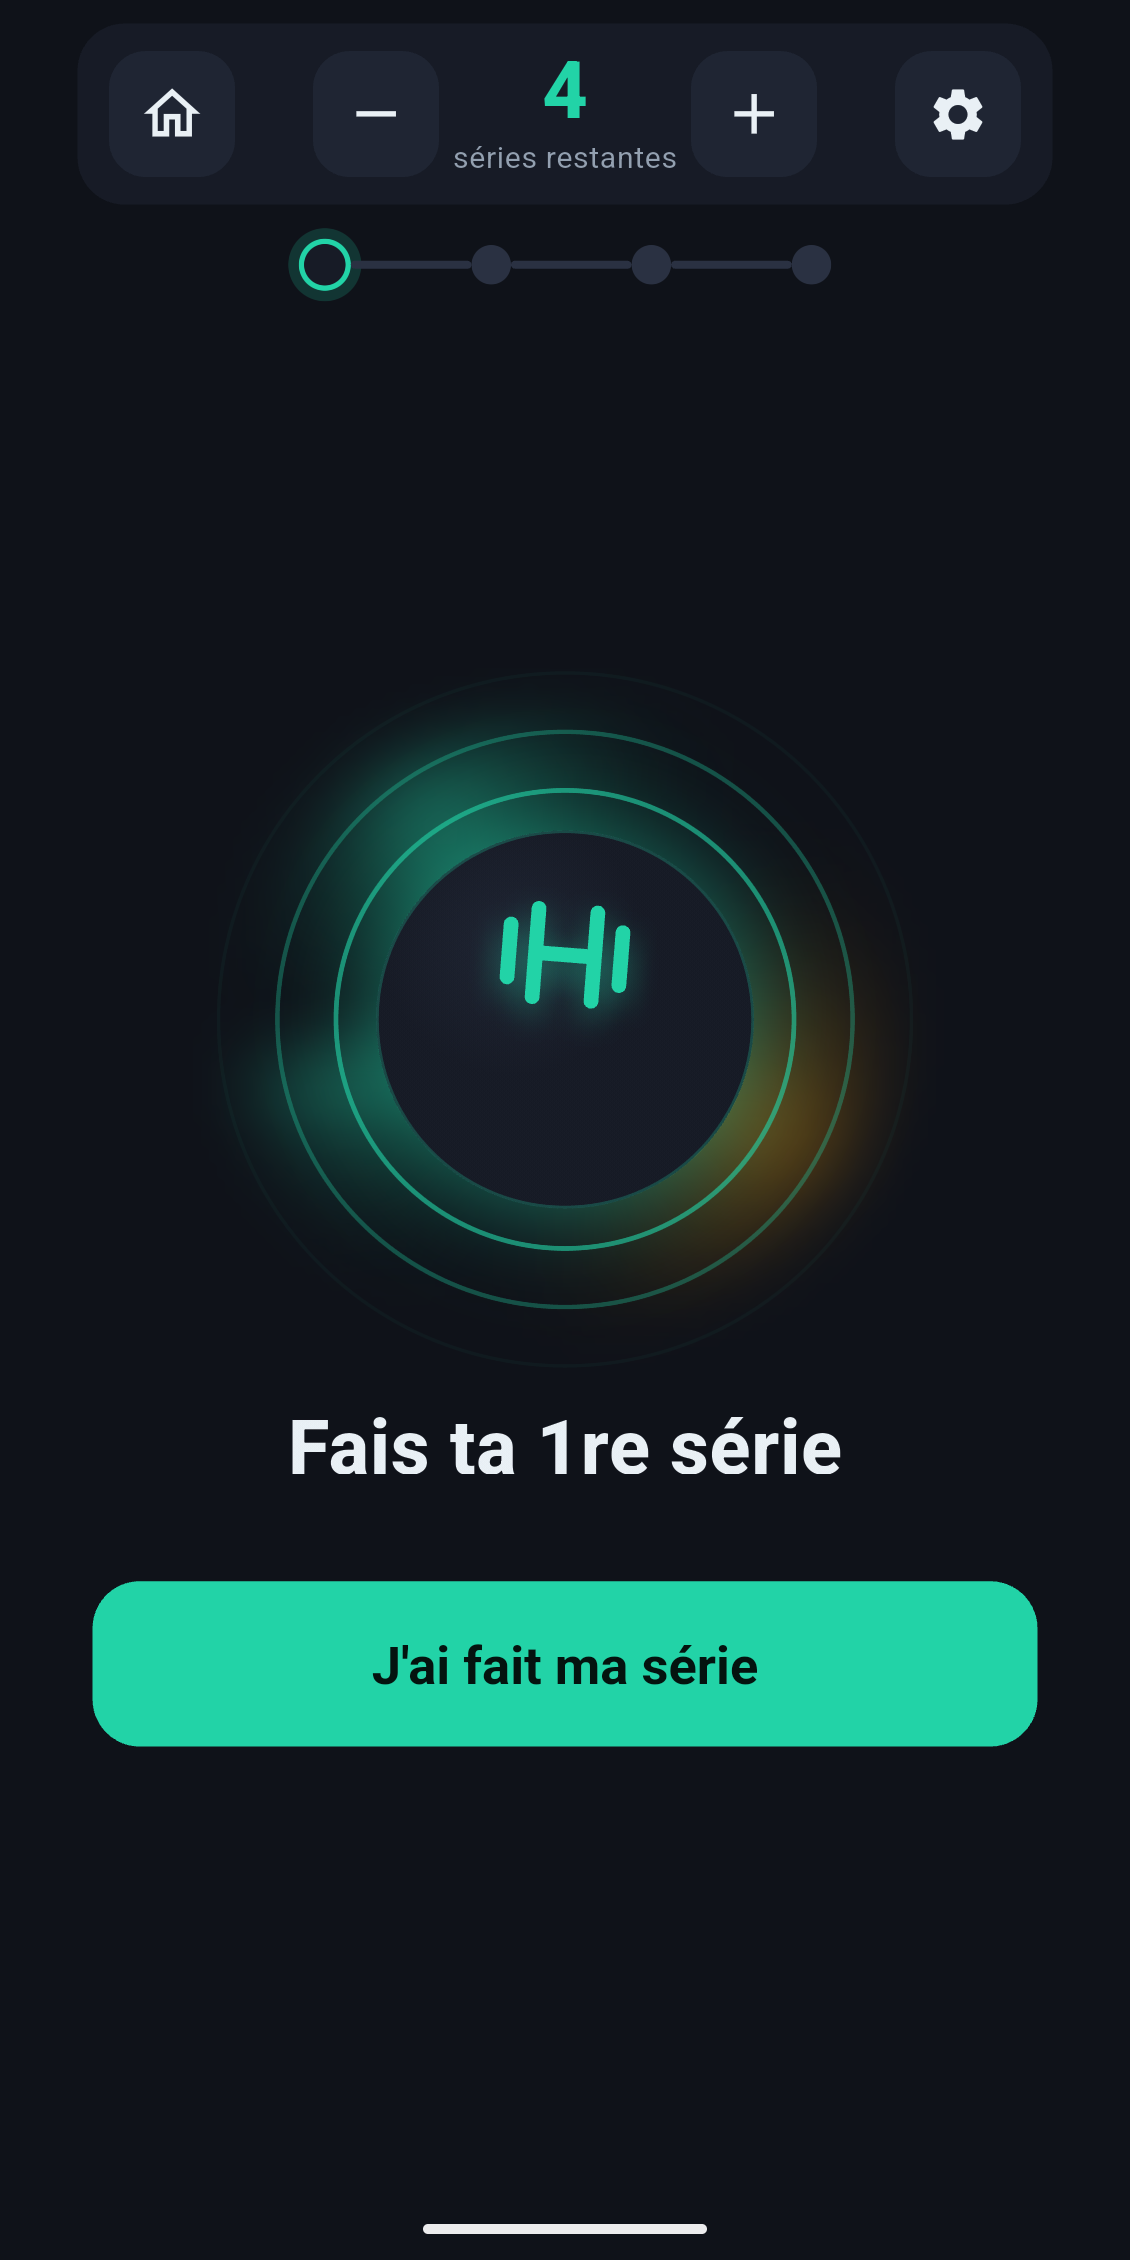
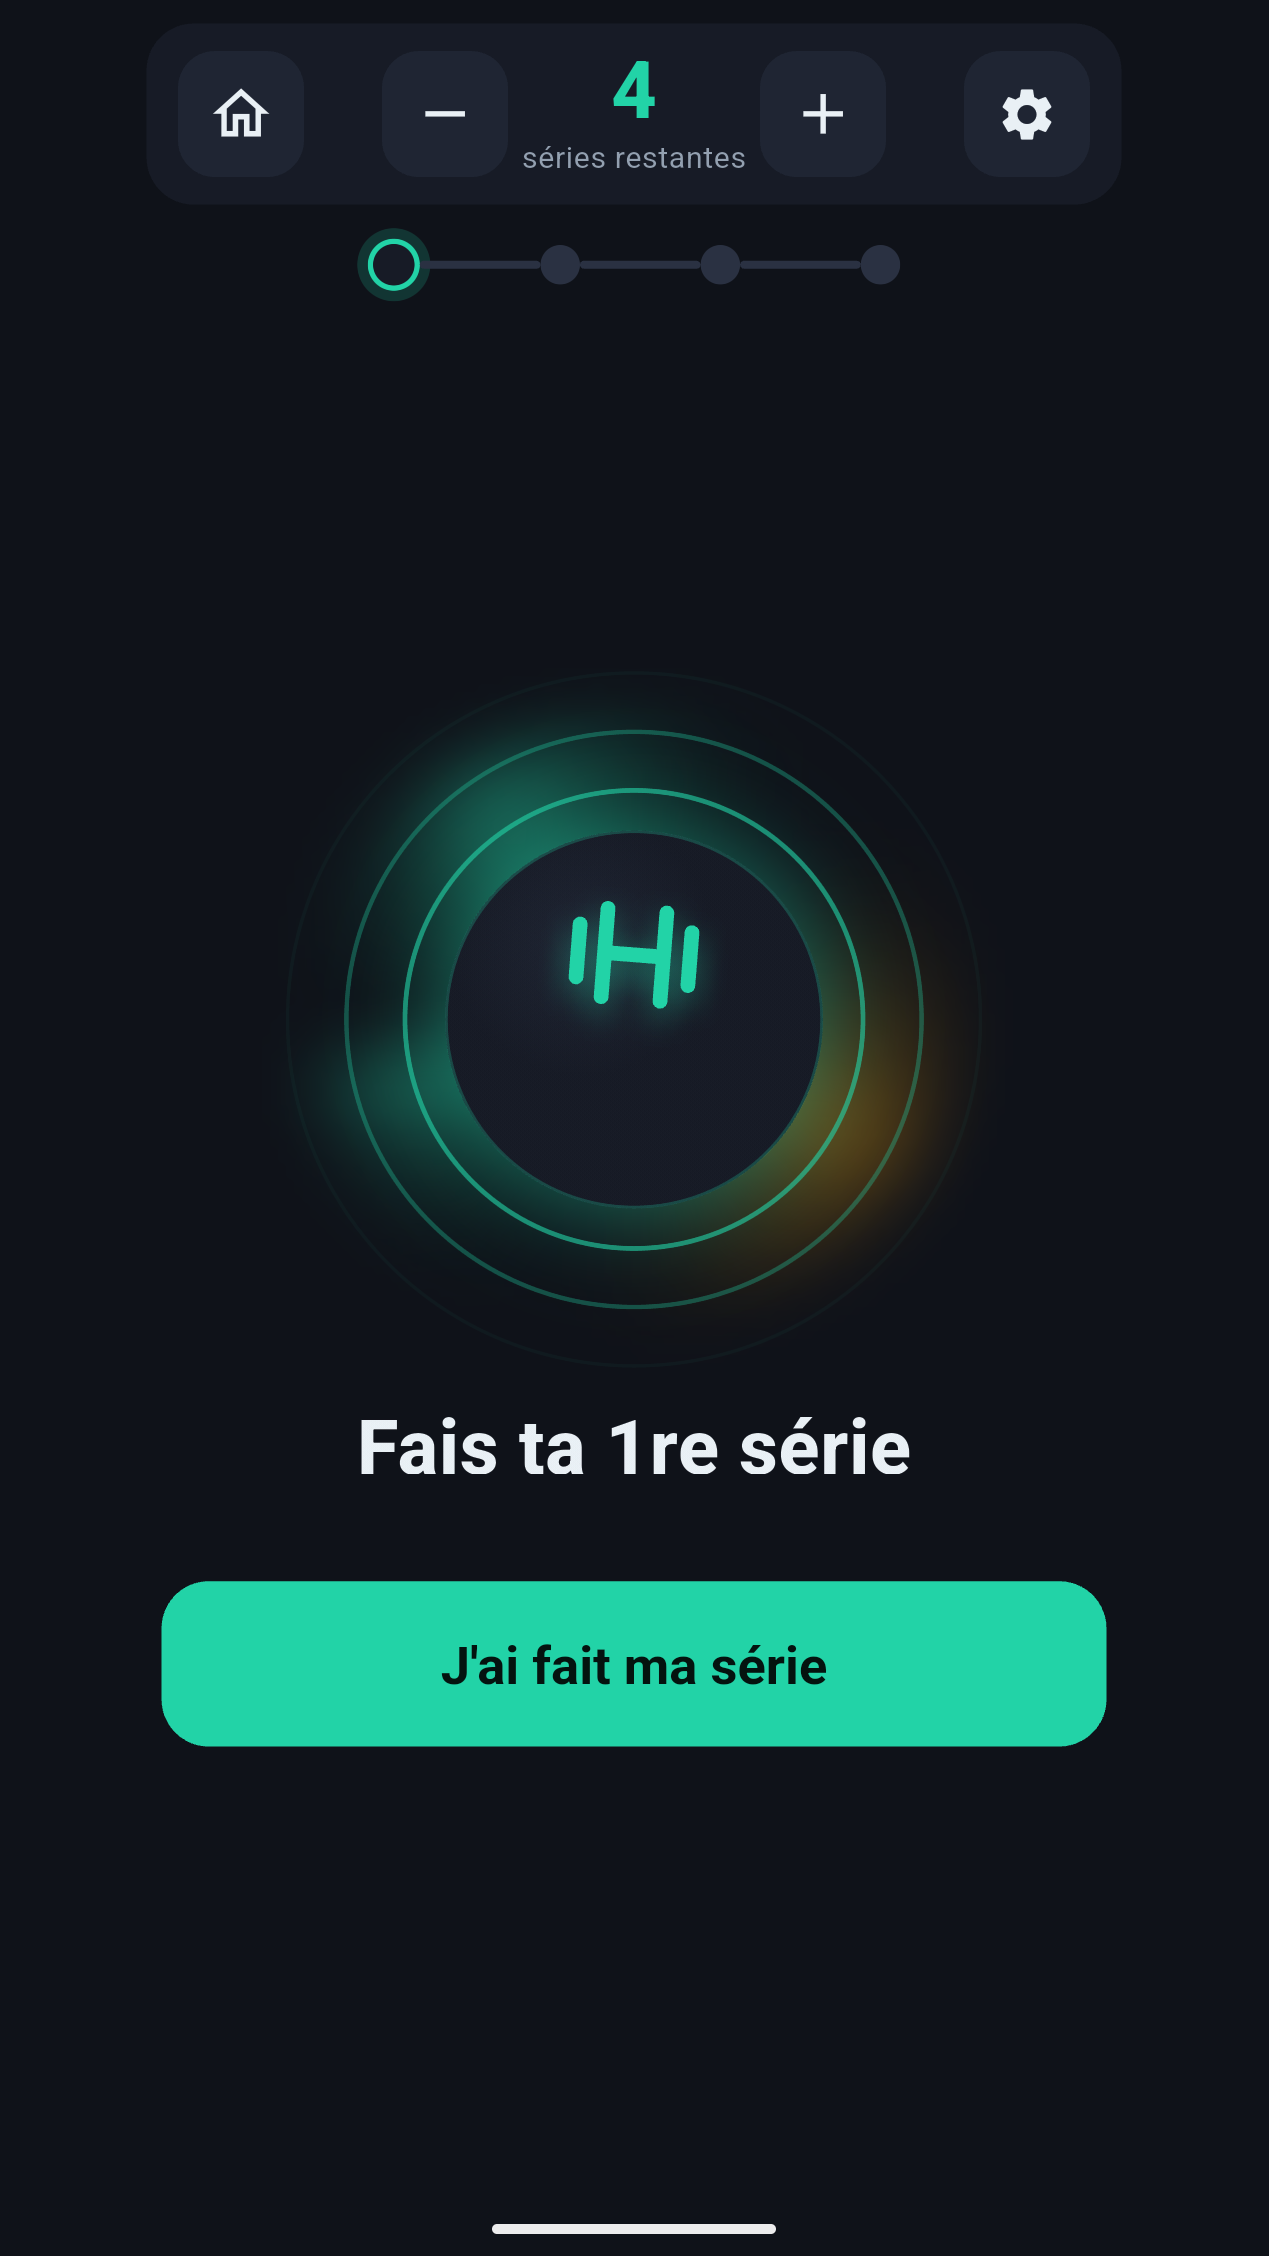
Captures d'écran au ratio 9:16 exact (exigence Play Store)
Play impose un ratio 16:9 ou 9:16 pour les captures téléphone : le 2:1
retenu jusqu'ici aurait été refusé. Le script rogne désormais la hauteur
au multiple de 16 inférieur, ce qui donne une largeur entière (h/16*9),
puis complète les côtés avec le fond de l'app — 1269×2256, sans perte de
contenu. Un recadrage vertical, lui, couperait les boutons du bas.

diff --git a/mobile/scripts/crop_screenshots.js b/mobile/scripts/crop_screenshots.js
@@ -14,16 +14,20 @@ const path = require('path');
 const { encodePNG, decodePNG } = require('./png');
 
 const STATUS_BAR = 140;          // hauteur de la barre d'état à retirer (px)
-const MAX_RATIO = 2.0;           // hauteur / largeur maximale tolérée par Play
 const BG = [15, 18, 25];         // #0f1219, le fond de l'app
 
 function toStoreFormat(buf) {
   const src = decodePNG(buf);
   const top = Math.min(STATUS_BAR, src.height - 1);
-  const h = src.height - top;
-  // Largeur minimale pour respecter le ratio (on n'élargit jamais moins que
-  // l'original : une capture déjà conforme est simplement recadrée).
-  const w = Math.max(src.width, Math.ceil(h / MAX_RATIO));
+  // Play exige un ratio 9:16 EXACT en portrait. On rogne la hauteur au
+  // multiple de 16 inférieur, ce qui donne une largeur entière (h/16*9), puis
+  // on complète les côtés avec le fond de l'app — invisible, et aucun contenu
+  // perdu (un recadrage vertical, lui, couperait des boutons).
+  const h = Math.floor((src.height - top) / 16) * 16;
+  const w = (h / 16) * 9;
+  if (w < src.width) {
+    throw new Error(`capture trop large pour un 9:16 sans perte : ${src.width}px > ${w}px`);
+  }
   const padLeft = Math.floor((w - src.width) / 2);
 
   const out = Buffer.alloc(w * h * 4);

diff --git a/mobile/store/fiche-play-store.md b/mobile/store/fiche-play-store.md
@@ -1,8 +1,18 @@
 # Fiche Play Store — PausePump
 
 Textes prêts à copier-coller dans Play Console.
-Assets : `store/play-icon-512.png`, `store/feature-graphic-1024x500.png`,
-`store/screenshots/*.png` (5 captures, 1130×2260, conformes au ratio 2:1).
+
+## Fichiers à glisser dans la fiche (dans cet ordre)
+
+| Champ Play Console | Fichier |
+|---|---|
+| Icône de l'application | `store/play-icon-512.png` (512×512) |
+| Image de présentation | `store/feature-graphic-1024x500.png` (1024×500) |
+| Captures d'écran pour téléphone | les 5 fichiers de `store/screenshots/` |
+
+Les captures font **1269×2256 = 9:16 exact**, le ratio qu'exige Play (une
+capture brute de Pixel, en 1080×2400, serait refusée). Régénérables via
+`node scripts/crop_screenshots.js <captures brutes...>`.
 
 ## Nom de l'application (max 30)
 ```
